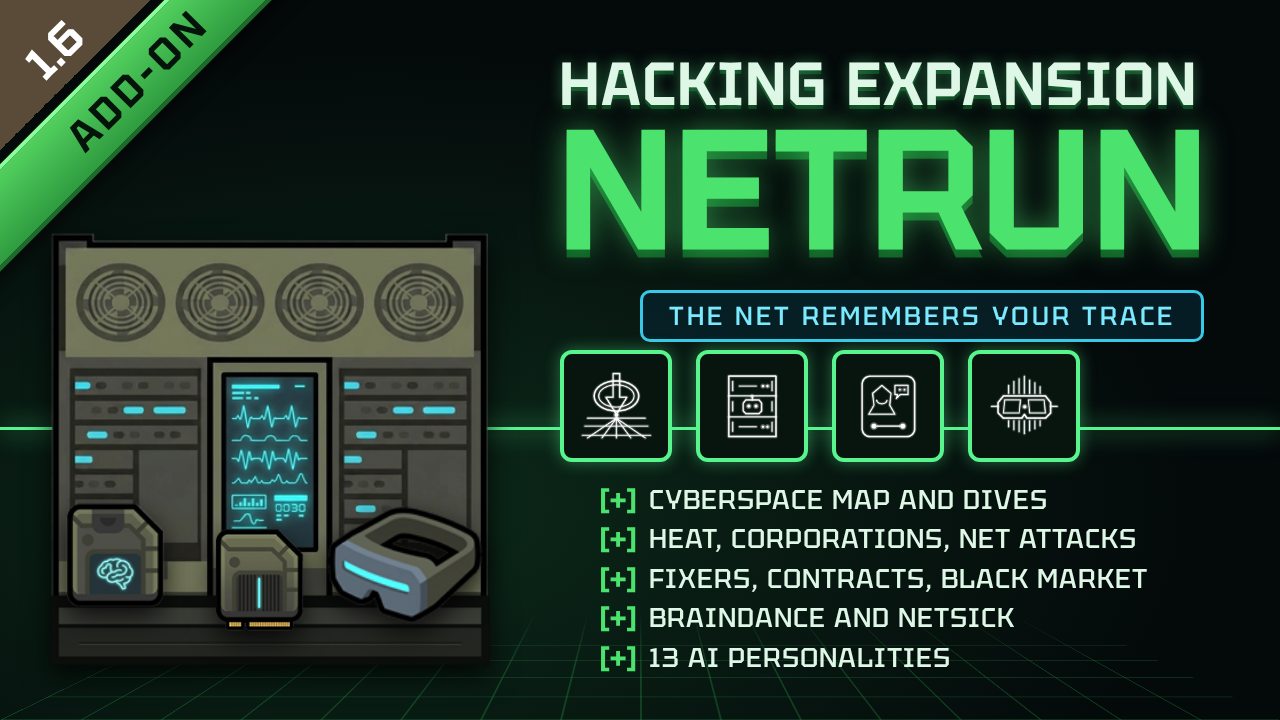
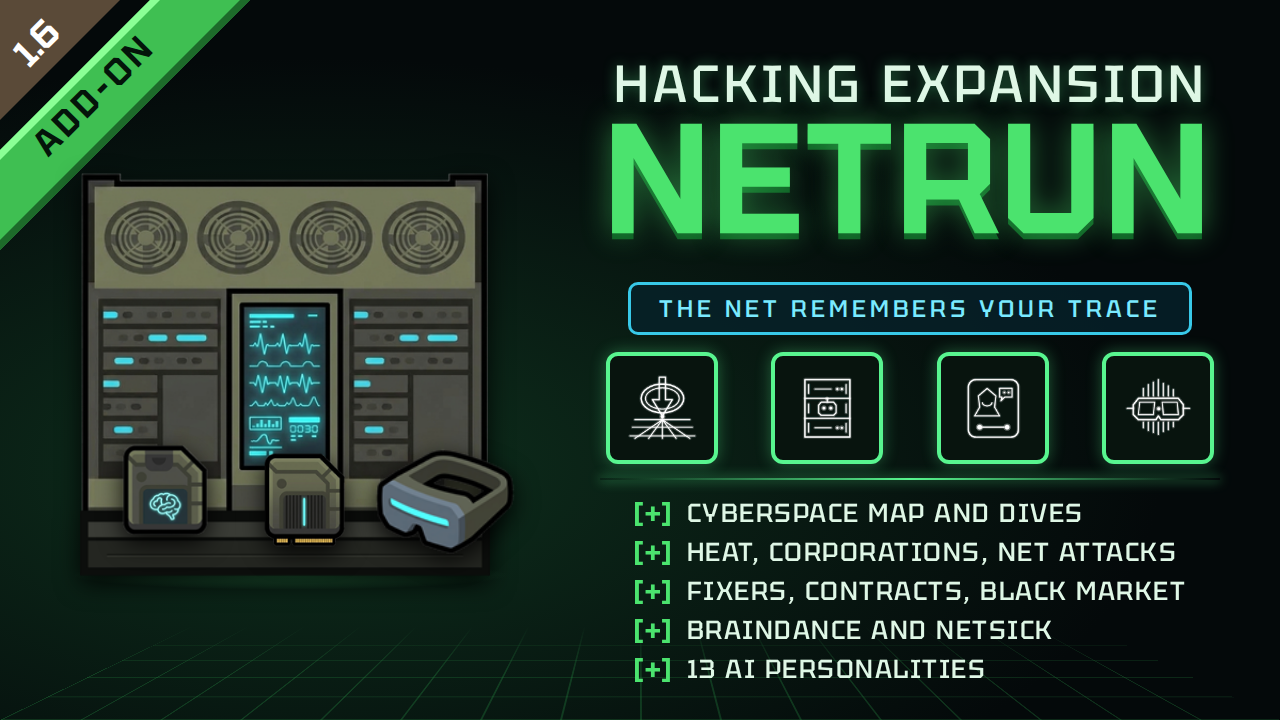
Preview v2: one aligned column, clean corner ribbon
Claude-Session: https://claude.ai/code/session_017ZG3mG5hByzfd4YGz9ze4s

diff --git a/docs/steam/preview_v2_source.html b/docs/steam/preview_v2_source.html
@@ -2,32 +2,32 @@
 @font-face{font-family:T;src:url('file:///home/claude/rimworld-netrun/tools/fonts/Tektur-Medium.ttf');font-weight:500}
 *{margin:0;box-sizing:border-box}
 body{width:1280px;height:720px;overflow:hidden;background:#04090a;font-family:T,Arial;color:#cfe;position:relative}
-.bg{position:absolute;inset:0;background:radial-gradient(ellipse at 30% 70%,#0c2a1a,#04090a 65%)}
-.grid{position:absolute;left:0;right:0;bottom:0;height:300px;background:linear-gradient(#0000,#0000),repeating-linear-gradient(90deg,#3cf06a55 0 2px,transparent 2px 80px),repeating-linear-gradient(0deg,#3cf06a44 0 2px,transparent 2px 46px);transform:perspective(500px) rotateX(58deg);transform-origin:bottom;opacity:.55;-webkit-mask-image:linear-gradient(#0000,#000 60%)}
-.glow{position:absolute;left:0;right:0;bottom:290px;height:3px;background:#58f58f;box-shadow:0 0 24px #58f58f}
-.rib{position:absolute;left:-150px;top:70px;width:520px;height:76px;transform:rotate(-45deg);background:linear-gradient(#52d05f,#2f9c3f);border-top:4px solid #8aff96;border-bottom:4px solid #1d6b2a;text-align:center;font:700 40px/68px T;color:#04140a;letter-spacing:6px;padding-left:80px;box-shadow:0 6px 18px #0009}
-.ver{position:absolute;left:0;top:0;width:150px;height:150px;background:linear-gradient(135deg,#5a4a38 50%,transparent 50%);font:700 44px T;color:#fff}
-.ver b{position:absolute;left:14px;top:8px;transform:rotate(-45deg);transform-origin:left top;top:50px}
-.t1{position:absolute;left:560px;top:46px;font:700 58px T;letter-spacing:3px;color:#dff7e6;text-shadow:0 0 14px #58f58f66,0 4px 0 #0a3a1a}
-.t2{position:absolute;left:560px;top:108px;font:700 164px/1 T;color:#4be36e;letter-spacing:4px;text-shadow:0 0 30px #4be36e88,0 8px 0 #0c5a22}
-.tag{position:absolute;left:640px;top:290px;padding:6px 26px;border:3px solid #38c9e8;border-radius:10px;font:500 26px T;color:#7aeaff;letter-spacing:3px;background:#06222acc}
-.ic{position:absolute;top:350px;width:112px;height:112px;border:4px solid #58f58f;border-radius:12px;background:#08140e;box-shadow:0 0 16px #58f58f66;display:flex;align-items:center;justify-content:center}
-.ic img{width:84px;height:84px;image-rendering:auto}
-ul{position:absolute;left:560px;top:480px;list-style:none;font:500 27px/1.46 T;letter-spacing:1px;color:#dff7e6}
-li b{color:#4be36e;margin-right:12px}
-.art{position:absolute}
-.art img{filter:drop-shadow(0 10px 14px #000c)}
-</style></head><body><div class="bg"></div><div class="grid"></div><div class="glow"></div>
-<div class="art" style="left:50px;top:230px"><img src="file:///home/claude/rimworld-netrun/Textures/Things/Building/Misc/NR_AIServer.png" width="440"></div>
-<div class="art" style="left:40px;top:480px"><img src="file:///home/claude/rimworld-netrun/Textures/Things/Item/Drug/NR_BraindanceChip.png" width="150"></div>
-<div class="art" style="left:200px;top:520px"><img src="file:///home/claude/rimworld-netrun/Textures/Things/Item/NR_AICoreModule.png" width="120"></div>
-<div class="art" style="left:310px;top:470px"><img src="file:///home/claude/rimworld-netrun/Textures/Things/Item/Equipment/NR_BraindanceGoggles.png" width="190"></div>
-<div class="rib">ADD-ON</div><div class="ver"><b>1.6</b></div>
-<div class="t1">HACKING EXPANSION</div><div class="t2">NETRUN</div>
-<div class="tag">THE NET REMEMBERS YOUR TRACE</div>
-<div class="ic" style="left:560px"><img src="file:///home/claude/rimworld-netrun/Textures/UI/Netrun/Nodes/Home_Gateway.png"></div>
-<div class="ic" style="left:696px"><img src="file:///home/claude/rimworld-netrun/Textures/UI/Netrun/Nodes/Home_Server.png"></div>
-<div class="ic" style="left:832px"><img src="file:///home/claude/rimworld-netrun/Textures/UI/Netrun/Nodes/Home_Club.png"></div>
-<div class="ic" style="left:968px"><img src="file:///home/claude/rimworld-netrun/Textures/UI/Netrun/Nodes/Home_Studio.png"></div>
-<ul><li><b>[+]</b>CYBERSPACE MAP AND DIVES</li><li><b>[+]</b>HEAT, CORPORATIONS, NET ATTACKS</li><li><b>[+]</b>FIXERS, CONTRACTS, BLACK MARKET</li><li><b>[+]</b>BRAINDANCE AND NETSICK</li><li><b>[+]</b>13 AI PERSONALITIES</li></ul>
+.bg{position:absolute;inset:0;background:radial-gradient(ellipse at 25% 65%,#0e301d,#04090a 62%)}
+.grid{position:absolute;left:0;right:0;bottom:0;height:250px;background:repeating-linear-gradient(90deg,#3cf06a55 0 2px,transparent 2px 80px),repeating-linear-gradient(0deg,#3cf06a44 0 2px,transparent 2px 46px);transform:perspective(500px) rotateX(58deg);transform-origin:bottom;opacity:.5;-webkit-mask-image:linear-gradient(#0000,#000 60%)}
+.col{position:absolute;left:600px;width:620px;text-align:center}
+.t1{top:50px;font:500 52px T;letter-spacing:4px;color:#dff7e6;text-shadow:0 0 14px #58f58f66}
+.t2{top:104px;font:700 150px/1 T;color:#4be36e;letter-spacing:6px;text-shadow:0 0 30px #4be36e77,0 6px 0 #0c5a22}
+.tag{top:282px}
+.tag span{display:inline-block;padding:8px 28px;border:3px solid #38c9e8;border-radius:10px;font:500 24px T;color:#7aeaff;letter-spacing:4px;background:#06222acc}
+.icons{top:352px;display:flex;justify-content:space-between;padding:0 6px}
+.ic{width:112px;height:112px;border:4px solid #58f58f;border-radius:12px;background:#08140e;box-shadow:0 0 16px #58f58f55;display:flex;align-items:center;justify-content:center}
+.ic img{width:80px;height:80px}
+.list{top:494px;text-align:left;padding-left:34px;list-style:none;font:500 26px/1.5 T;letter-spacing:1.5px;color:#dff7e6}
+.list b{color:#4be36e;margin-right:14px}
+.rule{position:absolute;left:600px;width:620px;height:2px;background:linear-gradient(90deg,transparent,#58f58f,transparent);box-shadow:0 0 12px #58f58f}
+.shelf{position:absolute;left:60px;top:600px;width:470px;height:10px;background:linear-gradient(#2a3a30,#0c1510);border-radius:4px;box-shadow:0 0 20px #58f58f33}
+.art{position:absolute}.art img{filter:drop-shadow(0 8px 12px #000d)}
+</style></head><body><div class="bg"></div><div class="grid"></div>
+
+<svg style="position:absolute;left:0;top:0" width="330" height="330"><polygon points="0,150 150,0 250,0 0,250" fill="#3fbf52"/><polygon points="0,150 150,0 160,0 0,160" fill="#8aff96"/><polygon points="0,240 240,0 250,0 0,250" fill="#1d6b2a"/><text transform="translate(96,96) rotate(-45)" font-family="T" font-weight="700" font-size="34" letter-spacing="5" fill="#04140a" text-anchor="middle" dominant-baseline="middle">ADD-ON</text></svg>
+<svg style="position:absolute;left:0;top:0" width="130" height="130"><polygon points="0,0 120,0 0,120" fill="#5a4a38"/><text transform="translate(38,44) rotate(-45)" font-family="T" font-weight="700" font-size="36" fill="#fff" text-anchor="middle" dominant-baseline="middle">1.6</text></svg>
+<div style="position:absolute;left:70px;top:560px;width:440px;height:30px;background:radial-gradient(ellipse,#58f58f66,transparent 70%)"></div><div class="art" style="left:80px;top:170px"><img src="file:///home/claude/rimworld-netrun/Textures/Things/Building/Misc/NR_AIServer.png" width="410"></div>
+<div class="art" style="left:100px;top:425px"><img src="file:///home/claude/rimworld-netrun/Textures/Things/Item/Drug/NR_BraindanceChip.png" width="130"></div>
+<div class="art" style="left:250px;top:445px"><img src="file:///home/claude/rimworld-netrun/Textures/Things/Item/NR_AICoreModule.png" width="110"></div>
+<div class="art" style="left:360px;top:417px"><img src="file:///home/claude/rimworld-netrun/Textures/Things/Item/Equipment/NR_BraindanceGoggles.png" width="170"></div>
+<div class="col t1">HACKING EXPANSION</div><div class="col t2">NETRUN</div>
+<div class="col tag"><span>THE NET REMEMBERS YOUR TRACE</span></div>
+<div class="col icons"><div class="ic"><img src="file:///home/claude/rimworld-netrun/Textures/UI/Netrun/Nodes/Home_Gateway.png"></div><div class="ic"><img src="file:///home/claude/rimworld-netrun/Textures/UI/Netrun/Nodes/Home_Server.png"></div><div class="ic"><img src="file:///home/claude/rimworld-netrun/Textures/UI/Netrun/Nodes/Home_Club.png"></div><div class="ic"><img src="file:///home/claude/rimworld-netrun/Textures/UI/Netrun/Nodes/Home_Studio.png"></div></div>
+<div class="rule" style="top:478px"></div>
+<ul class="col list"><li><b>[+]</b>CYBERSPACE MAP AND DIVES</li><li><b>[+]</b>HEAT, CORPORATIONS, NET ATTACKS</li><li><b>[+]</b>FIXERS, CONTRACTS, BLACK MARKET</li><li><b>[+]</b>BRAINDANCE AND NETSICK</li><li><b>[+]</b>13 AI PERSONALITIES</li></ul>
 </body></html>
